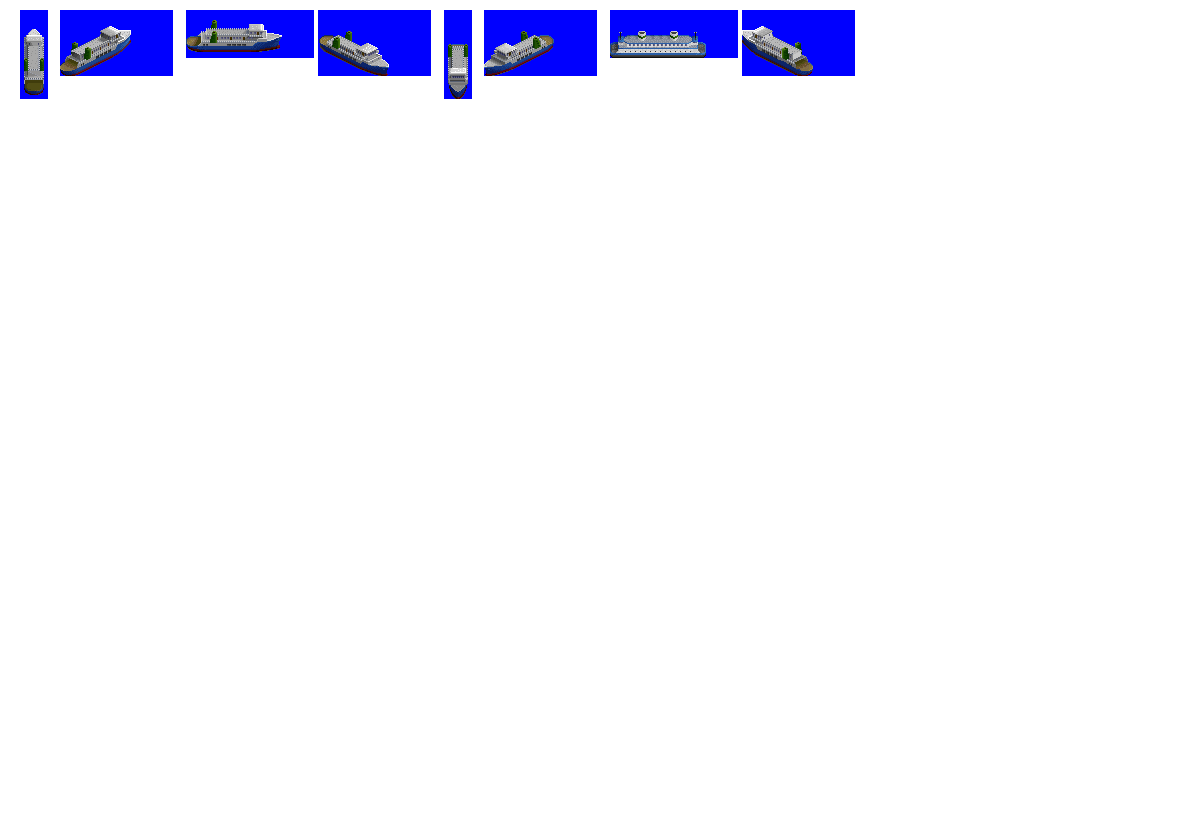
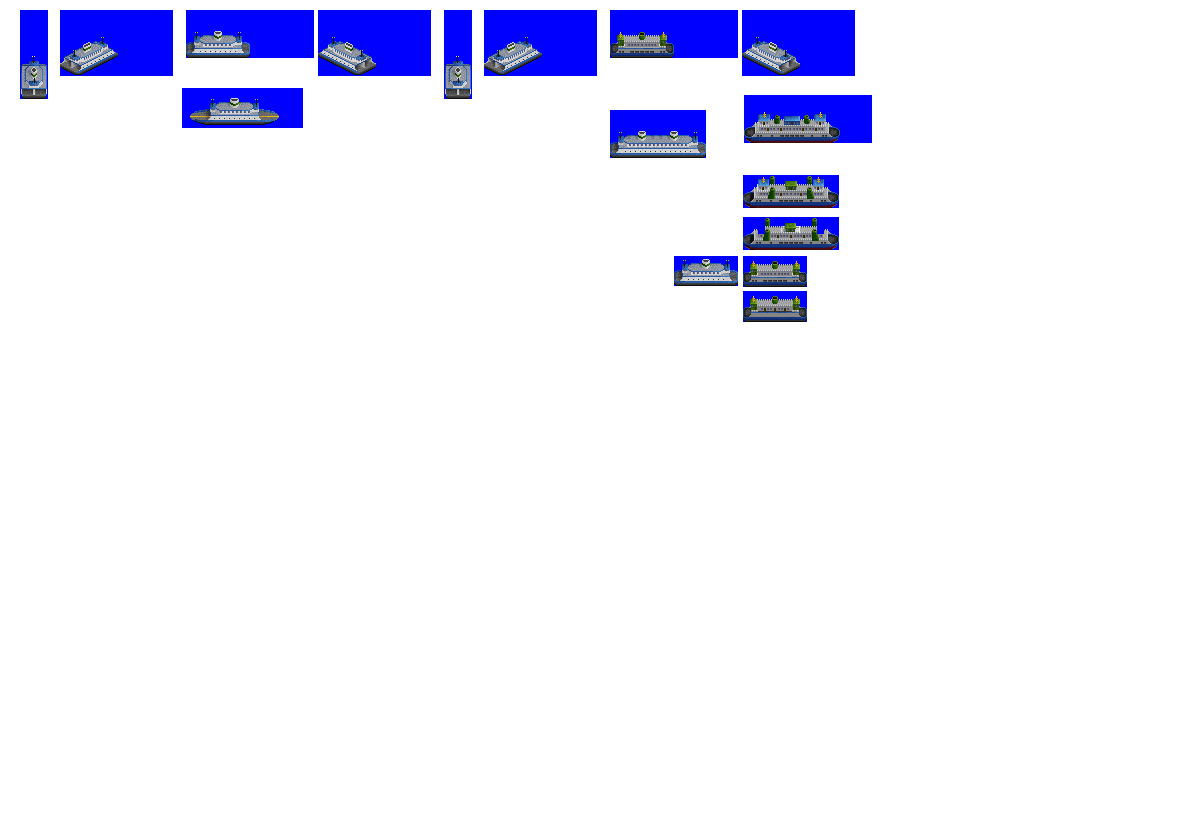
Change: WIP on pax ships

diff --git a/src/ships/pax_fast_loading_small.py b/src/ships/pax_fast_loading_small.py
@@ -4,7 +4,7 @@ from ship import PaxFastLoadingShip
 ship = PaxFastLoadingShip(id = 'pax_fast_loading_small',
                     numeric_id = 24,
                     title = '[Pax Fast Loading]',
-                    hull = 'ShipHouseForwardSmall',
+                    hull = 'TempHouseNoneMini',
                     buy_cost = 28,
                     fixed_run_cost_factor = 3.5,
                     fuel_run_cost_factor = 1.0,
